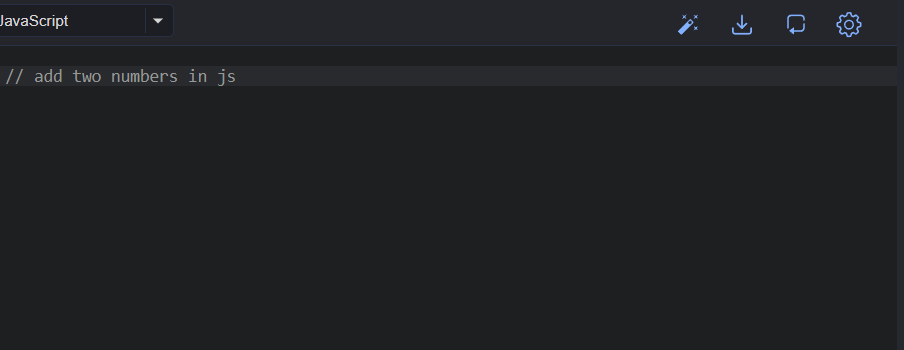
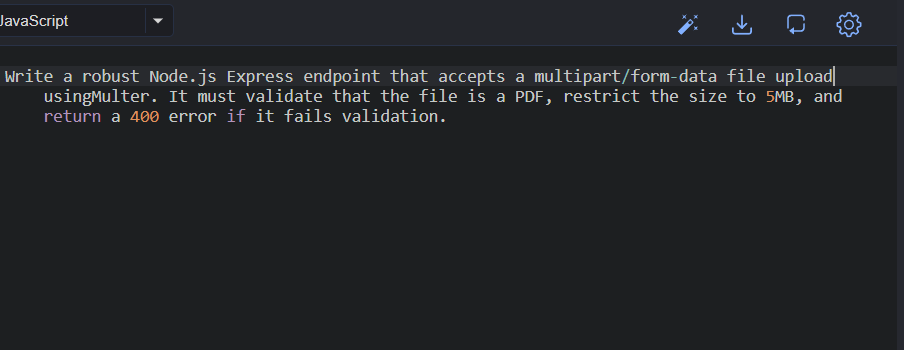
quick snipping fix

Changed region(s): [[0.0, 0.2, 0.9292, 0.3714]]

diff --git a/src/renderer/src/App.jsx b/src/renderer/src/App.jsx
@@ -360,96 +360,49 @@ function App() {
     }
   }, [])
 
+  const handleCtrlWCapture = async () => {
+    try {
+      // Hit the new dedicated OCR endpoint (no body needed, Python grabs the screen)
+      const res = await fetch('http://127.0.0.1:8000/agent/ocr-only', {
+        method: 'POST',
+        headers: { 'Content-Type': 'application/json' }
+      })
+      
+      const data = await res.json()
+      
+      if (data.text) {
+        console.log('[FRONTEND DEBUG] OCR Result:', data.text)
+        
+        // Drop the text into the input box and append the /c suffix
+        const prefilledText = `${data.text}\n\n/c`
+        
+        setInputText(prefilledText)
+        setInput(prefilledText) // Adjust based on your actual state variable name
+        
+        // Focus the input box and move cursor to the end
+        setTimeout(() => {
+          if (inputRef.current) {
+            inputRef.current.focus()
+            inputRef.current.selectionStart = prefilledText.length
+            inputRef.current.selectionEnd = prefilledText.length
+          }
+        }, 50)
+      }
+    } catch (error) {
+      console.error('OCR Capture failed:', error)
+    }
+  }
+
   useEffect(() => {
     if (window.api && window.api.onMoondreamTrigger) {
       const cleanup = window.api.onMoondreamTrigger(() => {
-        void (async () => {
-          const tempId = Date.now()
-          const aiId = `${tempId}-ai`
-          setMessages((prev) => [
-            ...prev,
-            {
-              id: tempId,
-              role: 'system',
-              content: '📸 Capturing screen & running Moondream analysis...'
-            }
-          ])
-          setIsThinking(true)
-
-          try {
-            const response = await fetchBackend('/agent/moondream-pipeline', {
-              method: 'POST',
-              headers: { 'Content-Type': 'application/json' },
-              body: JSON.stringify({
-                model_name: selectedModel,
-                tech_stack: techStack
-              })
-            })
-
-            if (!response.ok || !response.body) {
-              throw new Error(`Moondream pipeline request failed (${response.status})`)
-            }
-
-            const reader = response.body.getReader()
-            const decoder = new TextDecoder('utf-8')
-            let aiText = ''
-
-            setMessages((prev) => [
-              ...prev.filter((msg) => msg.id !== tempId),
-              { id: aiId, role: 'assistant', content: '' }
-            ])
-
-            while (true) {
-              const { value, done } = await reader.read()
-              if (done) break
-              aiText += decoder.decode(value, { stream: true })
-              setMessages((prev) => {
-                const newMessages = [...prev]
-                const targetIndex = newMessages.findIndex((msg) => msg.id === aiId)
-                if (targetIndex !== -1) {
-                  newMessages[targetIndex] = {
-                    ...newMessages[targetIndex],
-                    content: aiText
-                  }
-                }
-                return newMessages
-              })
-              await new Promise((resolve) => requestAnimationFrame(resolve))
-            }
-          } catch (error) {
-            console.error('Moondream Pipeline Failed:', error)
-            setMessages((prev) => {
-              const withoutTemp = prev.filter((msg) => msg.id !== tempId)
-              const hasAiMessage = withoutTemp.some((msg) => msg.id === aiId)
-              if (hasAiMessage) {
-                return withoutTemp.map((msg) =>
-                  msg.id === aiId
-                    ? {
-                        ...msg,
-                        content: 'Moondream pipeline failed. Check backend logs and retry.'
-                      }
-                    : msg
-                )
-              }
-              return [
-                ...withoutTemp,
-                {
-                  id: aiId,
-                  role: 'assistant',
-                  content: 'Moondream pipeline failed. Check backend logs and retry.'
-                }
-              ]
-            })
-          } finally {
-            setIsThinking(false)
-          }
-        })()
+        void handleCtrlWCapture()
       })
       return () => cleanup?.()
     }
 
     return undefined
-  }, [selectedModel, techStack])
+  }, [])
 
   // 2. Stream the Rust audio to Python
   useEffect(() => {
@@ -894,8 +847,9 @@ function App() {
   }
 
   const sendTextMessage = async (displayCommand, augmentedPrompt = null, actionType = null) => {
-    const payloadText = augmentedPrompt || displayCommand
-    const text = payloadText.trim()
+    let payloadText = augmentedPrompt || displayCommand
+    let text = payloadText.trim()
+    const rawInput = (displayCommand || '').trim()
 
     if (!text) {
       showMicToast('Cannot send an empty command.')
@@ -924,6 +878,49 @@ function App() {
       }
       return
     }
+
+    // --- NEW: Intercept Suffix manual commands ---
+    if (!augmentedPrompt) {
+      // 1. Handle standalone Z-macros (e.g., "/z-rag" with no extra text)
+      if (rawInput.match(/^\/z-[a-z0-9-]+$/i)) {
+        const commandId = rawInput.substring(1).toLowerCase()
+        let project = ''
+        if (commandId === 'z-hustlebot') project = 'hustle bot'
+        if (commandId === 'z-shadowos') project = 'shadow os'
+        if (commandId === 'z-kirana') project = 'kirana store'
+        if (commandId === 'z-rag') project = 'Advanced RAG Pipeline project'
+
+        if (project) {
+          displayCommand = `tell me about ${project}`
+          payloadText = `[Quick Command: CAREER]\nPlease answer the following interview question based on my local career database.\n\nQuestion:\n\ntell me about ${project}`
+          text = payloadText.trim()
+        }
+      } else {
+        // 2. Handle STRICT Suffix Commands (e.g., "code snippet \n /f")
+        // Regex strictly looks for the command at the end of the string
+        const suffixMatch = rawInput.match(/^(.*?)\s*\/(e|f|c|explain|fix|create|career)$/is)
+
+        if (suffixMatch) {
+          const baseQuery = suffixMatch[1].trim()
+          const commandId = suffixMatch[2].toLowerCase()
+
+          if (commandId === 'explain' || commandId === 'e') {
+            payloadText = `[Quick Command: EXPLAIN]\nPlease explain the following concept deeply and technically. You MUST include Time & Space Complexity, architectural details, and under-the-hood mechanics (like event loop blocking, memory management, threads, etc) if applicable.\n\nTarget to explain: ${baseQuery}`
+          } else if (commandId === 'fix' || commandId === 'f') {
+            payloadText = `[Quick Command: FIX]\nPlease analyze this broken code. You MUST provide:\n1. The exact bug and why it is breaking the old code.\n2. The corrected, production-ready code.\n3. A detailed explanation of the differences between the old and new code.\n\nCode to fix:\n\n${baseQuery}`
+          } else if (commandId === 'create' || commandId === 'c') {
+            payloadText = `[Quick Command: CREATE]\nPlease write a complete, production-ready program or script for this request. Include necessary imports, setup instructions, robust error handling, and a brief explanation of the architectural strategy used.\n\nCreation Request:\n\n${baseQuery}`
+          } else if (commandId === 'career') {
+            payloadText = `[Quick Command: CAREER]\nPlease answer the following interview question based on my local career database.\n\nQuestion:\n\n${baseQuery}`
+          }
+          text = payloadText.trim()
+        } else if (rawInput.startsWith('/')) {
+          showMicToast('Please provide your text followed by a suffix command like /c, /f, or /e.')
+          return
+        }
+      }
+    }
+    // --------------------------------------------------
 
     // 2. Setup UI State
     const userMessage = { role: 'user', content: displayCommand }

diff --git a/assistant-backend/main.py b/assistant-backend/main.py
@@ -616,6 +616,24 @@ async def execute_command(command: UserCommand):
         }
     )
 
+@app.post("/agent/ocr-only")
+async def run_ocr_only():
+    try:
+        # 1. Grab and crop using the precise coordinates
+        crop_box = (52, 290, 956, 640)
+        screenshot = ImageGrab.grab(bbox=crop_box)
+        screenshot.save("debug_crop.png")
+
+        # 2. Extract text locally
+        print("[FAST OCR] Running local Tesseract...")
+        raw_extraction = extract_text_from_image(screenshot)
+        print(f"[FAST OCR] Success. Extracted {len(raw_extraction)} chars.")
+        
+        # 3. Return ONLY the text back to React. DO NOT trigger the LLM.
+        return {"status": "success", "text": raw_extraction.strip()}
+    except Exception as e:
+        raise HTTPException(status_code=500, detail=str(e))
+
 @app.post("/agent/moondream-pipeline")
 async def run_moondream_pipeline(command: UserCommand):
     try:
